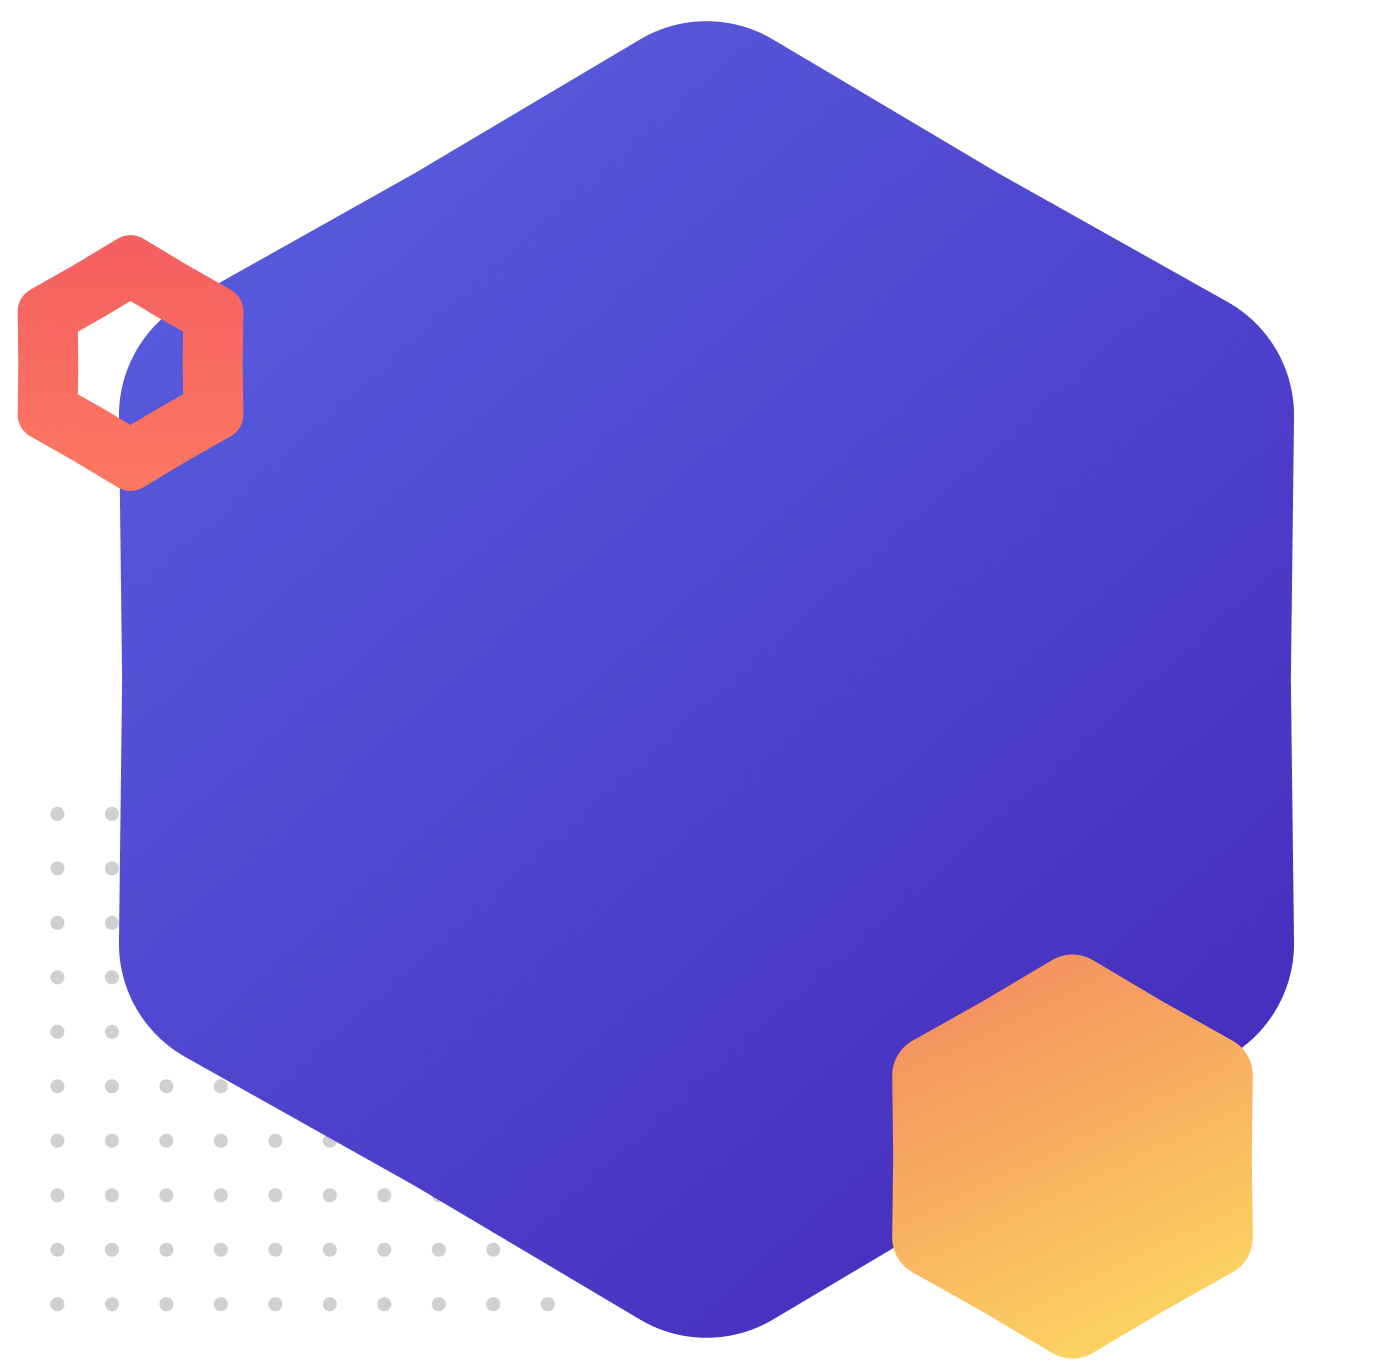
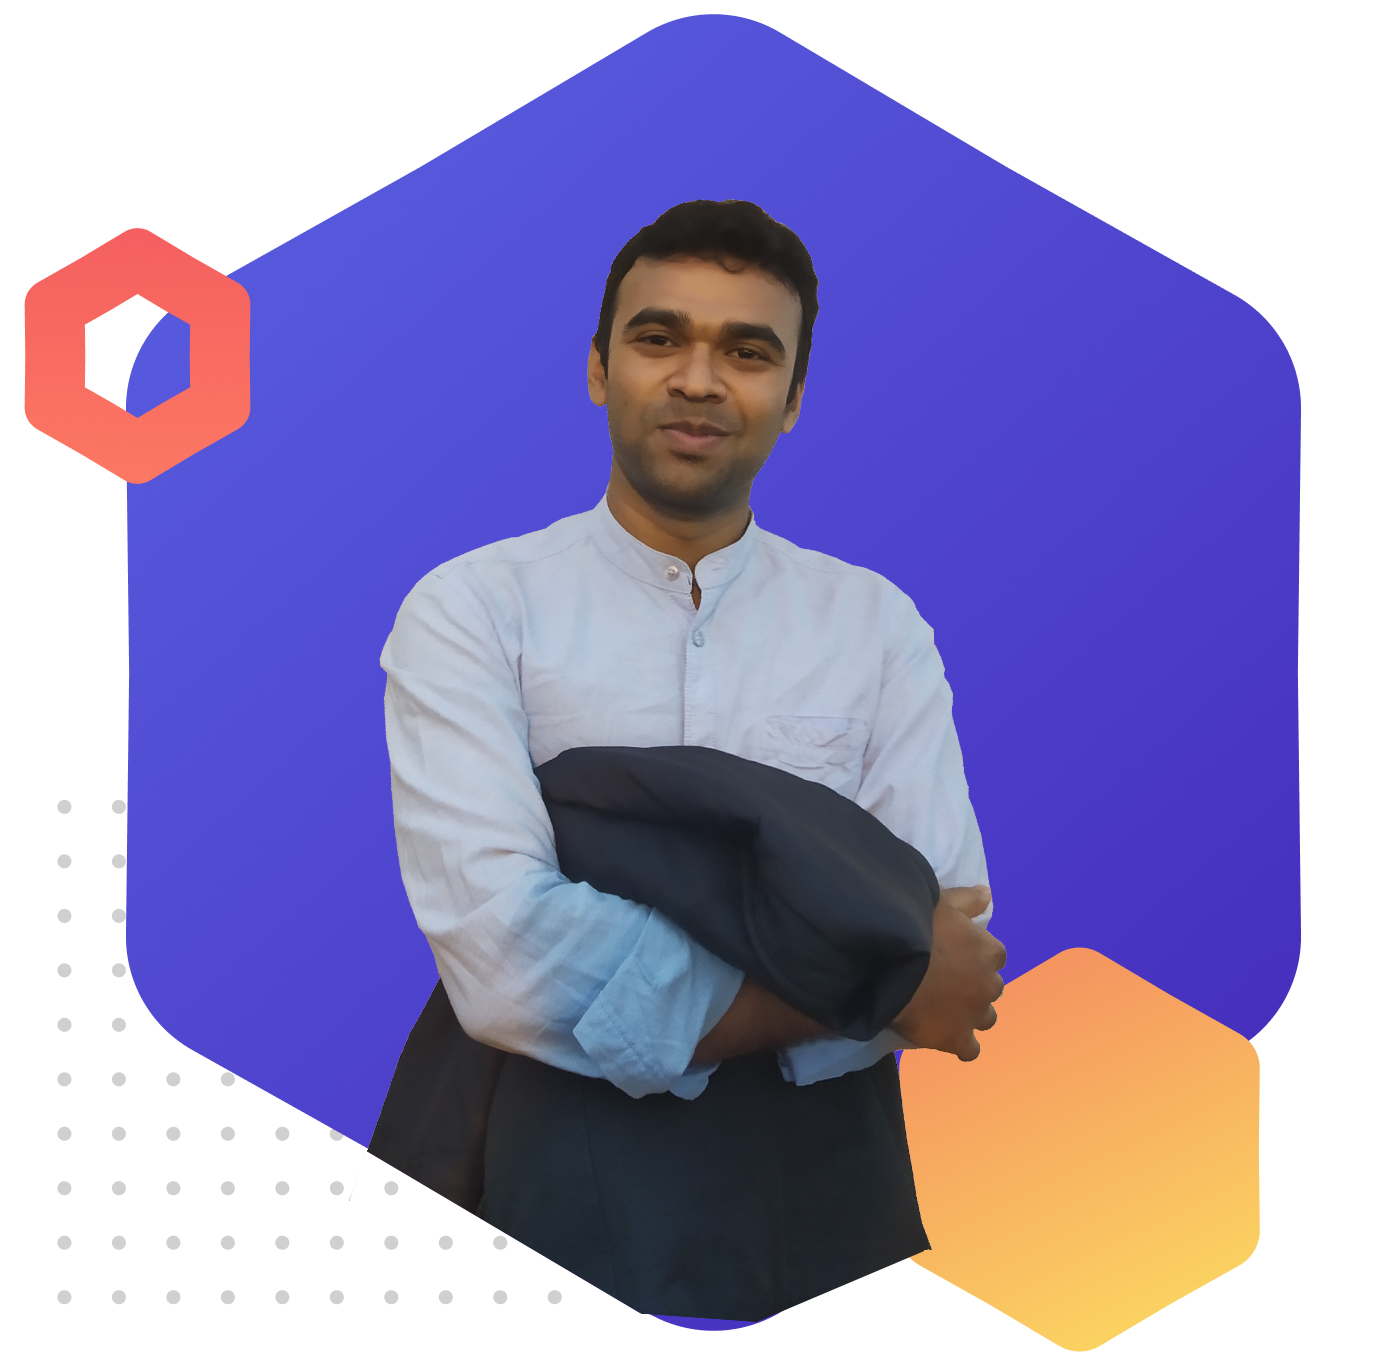
Final Submission of the project

diff --git a/index.html b/index.html
@@ -25,7 +25,7 @@
     </section>
     <section class="second-section">
         <div class="half-width">
-            <img src="images/Group 33089.png" alt="">
+            <img src="images/Group 33090.png" alt="">
 
         </div>
         <div class="half-width">
@@ -59,8 +59,38 @@
     <p>Lorem Ipsum is simply dummy text of the printing and typesetting industry.</p>
 
               
-</div>
+    </div>
+    </section>
 
+    <section class="exprience-area">
+        
+        <h1 class="orange-color">Specializing In</h1>
+        <div id="web-dev-gradiant" class="project-box exprience-box">
+            <h1>Web Development</h1>
+            <p>professional and Modern web development. Exclusive concept and design frontend.</p>
+
+        </div>
+        <div id="web-app-gradiant" class="project-box exprience-box">
+            <h1>Web Application</h1>
+            <p>professional and Modern web application development. With all latest web technology</p>
+
+        </div>
+        <div id="product-gradiant" class="project-box exprience-box">
+            <h1>Product design</h1>
+            <p>Design product launch page for your product and intregate payment system with paypal and all types of cards.</p>
+
+        </div>
+        
+    </section>
+
+    <section class="inquery-section">
+        <img src="images/Group_33094_1.png" alt="">
+        <div class="inquery-text">
+            <h1>WORK INQUERY</h1>
+        </div>
+        <div class="chatbtn">
+            <h1 class="button">Let's Chat</h1>
+        </div>
 
     </section>
     

diff --git a/style.css b/style.css
@@ -45,7 +45,7 @@ section{
 .project-section{
     background-color: #F8F9FC;
     width: 100%;
-    height: 800px;
+    height: 700px;
 }
 .project-section h1{
     text-align: center;
@@ -62,4 +62,53 @@ section{
 }
 .project-box img{
     width: 100%;
+}
+.exprience-area{
+    height: 480px;
+}
+.exprience-area h1{
+    text-align: center;
+    font-weight: 700;
+    font-size: 30px;
+}
+.exprience-box{
+    height: 200px;
+    
+}
+.exprience-box p{
+    padding: 10px;
+}
+#web-dev-gradiant{
+    border-left: 7px solid;
+    border-image: linear-gradient(180deg, lightsalmon,tomato);
+    border-image-slice: 1;
+}
+#web-app-gradiant{
+    border-left: 7px solid;
+    border-image: linear-gradient(180deg, blue,cyan);
+    border-image-slice: 1;
+}
+#product-gradiant{
+    border-left: 7px solid;
+    border-image: linear-gradient(180deg, yellow,tomato);
+    border-image-slice: 1;
+}
+.inquery-section img{
+    width: 60%;
+}
+.inquery-section{
+    text-align: center;
+    position: relative;
+}
+.inquery-text{
+    position: absolute;
+    top: 46px;
+    left: 339px;
+    color: white;
+    font-size: 20px;
+}
+.chatbtn{
+    position: absolute;
+    top: 50px;
+    right: 330px;
 }
